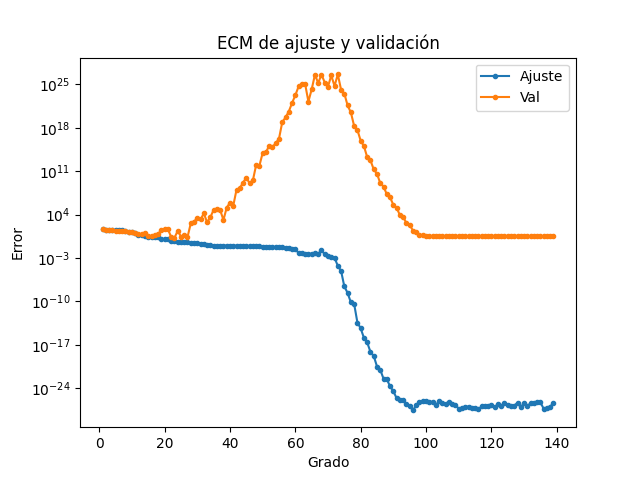
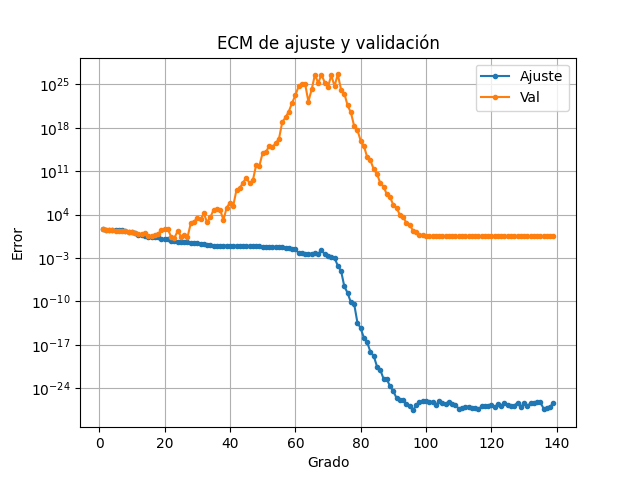
Aplica grilla al grafico del sujeto 1

diff --git a/tp3/experimentos.py b/tp3/experimentos.py
@@ -86,4 +86,4 @@ def explorar_hiperparametros():
 if __name__ == "__main__":
     print("Experimentando...")
     # plot_error_sujeto_1()
-    explorar_hiperparametros()
+    # explorar_hiperparametros()
